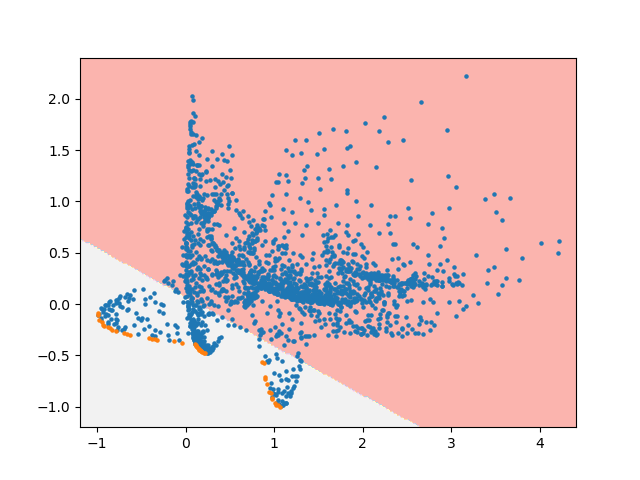
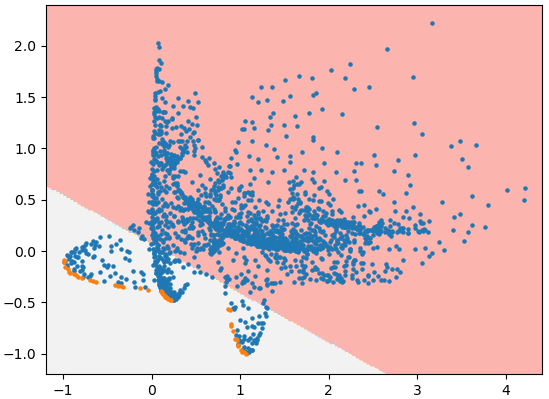
fix figures in LaTeX

diff --git a/2022/LION/main.tex b/2022/LION/main.tex
@@ -7,6 +7,7 @@
 \usepackage{graphicx}
 \usepackage{color}
 \usepackage{hyperref}
+\usepackage{ulem}
 
 \usepackage{amsmath}
 
@@ -19,9 +20,9 @@
 
 \begin{document}
 %
-\title{ML-based approach for accelerating global search algorithm for solving multicriteria problems\thanks{Supported by organization x.}}
+\title{ML-based approach for accelerating global search algorithm for solving multicriteria problems\thanks{This study was supported by the Russian Science Foundation, project No 21-11-00204.}}
 %
-%\titlerunning{Abbreviated paper title}
+\titlerunning{ML-based approach for accelerating global search algorithm}
 % If the paper title is too long for the running head, you can set
 % an abbreviated paper title here
 %
@@ -46,11 +47,11 @@ The paper considers a new approach to solving multicriterial optimization proble
 %
 %
 \section{Introduction}
-\textcolor[rgb]{1,0,0}{Machine learning (ML) methods are powerful tools that are applied in many areas of research.}
+Machine learning (ML) methods are powerful tools that are applied in many areas of research.
 In particular, the ML methods are successfully used for solving complicated problems of computational mathematics. One of such problem classes to which ML can be applied is the class of multicriterial optimization (MCO) models. 
 In this case, ML is used, as a rule, in combination with metaheuristic algorithms \cite{Subraveti2019} that in the case of multiextremal criteria lose in efficiency to deterministic methods \cite{Kvasov2018,Sergeyev2018}.
 
-Among the most qualitative deterministic methods for solving \textcolor[rgb]{1,0,0}{these problems} the information-statistical global search algorithm \cite{Sergeyev2013,Strongin2000} can be considered. This method proposed initially for solving scalar problems was successfully extended to MCO models \cite{GergelKozinovAPI2016,Gergel2018}.
+Among the most qualitative deterministic methods for solving these problems the information-statistical global search algorithm \cite{Sergeyev2013,Strongin2000} can be considered. This method proposed initially for solving scalar problems was successfully extended to MCO models \cite{GergelKozinovAPI2016,Gergel2018}.
 
 The paper reflects results of a new research direction connected with utilizing ML methods for acceleration of the global search algorithm in the case of its application to MCO problems. The proposed approach is based on building a number of separation planes in the criteria space to segregate the Pareto set and accelerate the process of its construction. The efficiency of the approach is estimated experimentally compared to several other MCO methods.
 
@@ -58,14 +59,10 @@ The paper reflects results of a new research direction connected with utilizing 
 \section{Problem statement}
 
 The MCO problem to be considered is formulated as follows:
-\begin{equation}
-f(y)=(f_1 (y),f_2 (y),\dots ,f_s (y)) \to \min, \; y\in D,
-\label{eq:1}
-\end{equation}
-\begin{equation}
-D=\left\{ y \in R^N: a_i \leq y_i \leq b_i, \; 1 \leq i \leq N, \; a,b \in R \right\}.
-\label{eq:2}
-\end{equation}
+\begin{gather}
+f(y)=(f_1 (y),f_2 (y),\dots ,f_s (y)) \to \min, \; y\in D,  \label{eq:1} \\ 
+D=\left\{ y \in R^N: a_i \leq y_i \leq b_i, \; 1 \leq i \leq N, \; a,b \in R \right\}.\label{eq:2} 
+\end{gather}
 where $f_i (y)$, $1 \leq i \leq s$, are  criteria, $y=(y_1,y_2, \dots,y_N)$ is a vector of independent variables, $N$ is the dimension of the problem. The criteria $f_i (y)$, $1 \leq i \leq s$, are supposed to be multiextremal, to be given as a ``black-box'' functions and to satisfy the Lipschitz condition
 \begin{equation}
 |f_i (y')-f_i (y'')| \leq L_i \|y'-y''\|, \; y',y'' \in D, \; 1 \leq i \leq s,
@@ -73,16 +70,16 @@ where $f_i (y)$, $1 \leq i \leq s$, are  criteria, $y=(y_1,y_2, \dots,y_N)$ is a
 \end{equation}
 where $L_i>0$, $1 \leq i \leq s$, are a priori unknown Lipschitz constants.
 
-Any effective (Pareto-optimal) variant  in which it is impossible to reduce the values of all criteria $f_i (y)$, $1 \leq i \leq s$, at once by choosing another option   can be considered as a partial solution to the MCO problem. In practice, various scalarization techniques are often used to find effective solutions \cite{Ehrgott2005,Pardalos2017,Marler2004,GergelKozinov2020}. The present study uses the minimax convolution of partial criteria that possesses good theoretical properties
+Any effective (Pareto-optimal) variant  in which it is impossible to reduce the values of all criteria $f_i (y)$, $1 \leq i \leq s$, at once by choosing another option   can be considered as a partial solution to the MCO problem. In practice, various scalarization techniques are often used to find effective solutions \cite{Ehrgott2005,GergelKozinov2020,Marler2004,Pardalos2017}. The present study uses the minimax convolution of partial criteria that possesses good theoretical properties
 \begin{equation}
 \min{f(y)} \to \min_{y\in D}{\max_{1 \leq i \leq s}{(f_i (y) \lambda_i )}} ,
 \label{eq:4}
 \end{equation}
 where $\lambda_i \geq 0$, $1 \leq i \leq s$, $\sum_{i=1}^s{\lambda_i}=1$, are numerical indicators of the significance of each criterion. 
 
-In general case, the entire set of Pareto-optimal variants is taken as a complete solution to the MCO problem. For the numerical building of an approximation of the Pareto set a number of scalar optimization problems (\ref{eq:4}) are solved with different coefficients $\lambda_i \geq 0$, $1 \leq i \leq s$, uniformly distributed
+In general case, the entire set of Pareto-optimal variants is taken as a complete solution to the MCO problem. For the numerical building of an approximation of the Pareto set a number of scalar optimization problems (\ref{eq:4}) are solved with different coefficients $\lambda_i \geq 0$, $1 \leq i \leq s$, distributed uniformly.
 %in the space of ones.
-\textcolor[rgb]{1,0,0}{in $[0,1]$.}
+%\textcolor[rgb]{1,0,0}{in $[0,1]$.}
 
 \section{General computational scheme}
 
@@ -121,18 +118,26 @@ $R_{ags}(i)$ is calculated in accordance with the expression from the global sea
 
 Calculation of $R_{PS}(i)$ is based on machine learning methods. When solving the first global search problem (\ref{eq:4}), the value of $R_{PS}(i)$ is assumed to be zero. To solve each subsequent scalar problem (\ref{eq:4}), $R_{PS}(i)$ is calculated as follows.
 
-In the course of Pareto set assessment all trial points are partitioned into two classes. This bipartition is based on belonging to the Pareto set. For these classes, a separation hyperplane is constructed in the domain of criteria values using the logistic regression \cite{Yu2011}. Examples of separated planes are shown in Fig.~\ref{fig:1}. During the choice of a new trial point, the distances of all obtained criteria values from the separated plane are calculated and the value of $R_{PS}(i)$ is built depending on these distances. 
+In the course of Pareto set assessment all trial points are partitioned into two classes. This bipartition is based on belonging to the Pareto set. For these classes, a separation hyperplane is constructed in the domain of criteria values using the logistic regression \cite{Yu2011}. Examples of separating planes are shown in Fig.~\ref{fig:1}. During the choice of a new trial point, the distances of all obtained criteria values from the separating plane are calculated and the value of $R_{PS}(i)$ is built depending on these distances. 
 
 \begin{figure}[ht]
-\includegraphics[width=0.8\textwidth]{fig1.png}
-\caption{Separated hyperplanes in the criteria space} \label{fig:1}
+\center
+%\includegraphics[width=0.9\textwidth]{fig1.png}
+\begin{minipage}{0.45\linewidth}
+\center{\includegraphics[width=0.9\linewidth]{fig1a.png}}
+\end{minipage}
+\begin{minipage}{0.45\linewidth}
+\center{\includegraphics[width=0.9\linewidth]{fig1b.png}}
+\end{minipage}
+
+\caption{Separating hyperplanes in the criteria space} \label{fig:1}
 \end{figure}
 
-Hereinafter the algorithm taking into account distances to separated hyperplane and accumulated information will be called ML\_MGSA.
+Hereinafter the algorithm taking into account distances to separating hyperplane and accumulated information will be called ML\_MGSA.
 
 \section{Results of computational experiments}
 
-Computational testing was carried out on the supercomputer ``Lobachevsky'' of Nizhny Novgorod State University in the environment of the Globalizer software system \cite{globalizerSystem}. 
+Computational testing was carried out on the``Lobachevsky'' supercomputer of Nizhny Novgorod State University in the environment of the Globalizer software system \cite{globalizerSystem}. 
 
 The first series of experiments was performed to compare the algorithm ML\_MGSA with a number of widely known multiobjective optimization algorithms using a test two-criterion problem \cite{Evtushenko2014}
 
@@ -143,7 +148,10 @@ f_1 (y) = (y_1-1) y_2^2+1, \; f_2 (y) = y_2, \; 0\leq y_1, y_2 \leq 1.
 
 In these experiments, a numerical approximation of the Pareto set was built. The quality of approximation is estimated by such indicators as the hypervolume index (HV) and distribution uniformity index (DU) \cite{Evtushenko2014,Zilinskas2015}. In the framework of the experiment 5 algorithms of multicriterial optimization were compared: the Monte-Carlo (MC) method, the genetic algorithm SEMO \cite{PISA2003}, the Non-uniform coverage (NUC) method \cite{Evtushenko2014}, the bi-objective Lipschitz optimization (BLO) method \cite{Zilinskas2015} and algorithm ML\_MGSA, proposed in this article. 
   
-ML\_MGSA solved 25 problems (\ref{eq:4}) with different convolution coefficients $\lambda$, uniformly distributed in the field of their variation. The results of the conducted experiments are shown in Table \ref{tab:1} where ML\_MGSA with $\alpha=0$ corresponds to the version without machine learning.
+ML\_MGSA solved 25 problems (\ref{eq:4}) with different convolution coefficients $\lambda$, distributed uniformly.
+%in the field of their variation.
+The results of the conducted experiments are shown in Table \ref{tab:1} where ML\_MGSA with $\alpha=0$ corresponds to the version without machine learning.
+As it follows from the results presented in Table \ref{tab:1}, ML\_MGSA demonstrates the better quality compared to other methods.
 
 \begin{table}
 \caption{Efficiency of the multicriterial algorithms compared}
@@ -158,7 +166,6 @@ DU index (the less the better) & 1.277 & 1.116 & 0.210 & 0.175 & 0.101          
 \end{tabular}
 \end{table}
 
-As it follows from the results presented in Table \ref{tab:1}, ML\_MGSA demonstrates the better quality compared to other methods.
 
 In the second group of experiments 100 bi-criteria MCO problems have been solved. As the criteria the multiextremal functions
 
@@ -172,7 +179,9 @@ a_{ij}(y_1, y_2) = \sin(\pi i y_1) \sin(\pi j y_2), b_{ij}(y_1, y_2) = \cos(\pi 
 \end{equation}
 $0 \leq y_1,y_2 \leq 1$, have been taken where parameters $-1 \leq A_{ij},B_{ij},C_{ij},D_{ij} \leq 1$ are the independent random numbers distributed uniformly \cite{Gergel2019_2,Grishagin2015_2}.
 
-In order to estimate efficiency of machine learning procedure in ML\_MGSA, this method tested in 2 variants: with ($\alpha>0$) and without ($\alpha=0$) machine learning. Each multicriterial problem was reduced to 50 scalar problems (\ref{eq:4}) with different weight coefficients $\lambda$ distributed uniformly. Other algorithm's parameters were the same. The averaged results can be found in Table \ref{tab:2}.
+In order to estimate efficiency of machine learning procedure in ML\_MGSA, this method tested in 2 variants: with ($\alpha>0$) and without ($\alpha=0$)
+\sout{machine learning} \textcolor[rgb]{1,0,0}{use of separating planes in the criteria space}. 
+Each multicriterial problem was reduced to 50 scalar problems (\ref{eq:4}) with different weight coefficients $\lambda$, distributed uniformly. Other algorithm's parameters were the same. The averaged results can be found in Table \ref{tab:2}.
 
 \begin{table}
 \caption{Efficiency of the multicriterial algorithms compared}
@@ -188,22 +197,6 @@ Reducing the number of iterations & 1                & 2.9     \\  \hline
 \end{table}
 
 As shown in the table, embedding the machine learning into the global search algorithm results in a significant reduction of the number of trials (almost 3 times) with maintaining close values of indicators HV and DU.
-
-%1 \cite{Miettinen1999}
-%2 \cite{Ehrgott2005}
-%3 \cite{Pardalos2017}
-%4 \cite{Strongin2000}
-%5 \cite{Sergeyev2013}
-%6 \cite{GergelKozinovAPI2016}
-%7 \cite{Gergel2018}
-%8 \cite{Marler2004}
-%9 \cite{GergelKozinov2020}
-%10 \cite{Yu2011}
-%11 \cite{globalizerSystem}
-%12 \cite{Evtushenko2014}
-%13 \cite{Zilinskas2015}
-%14 \cite{PISA2003}
-
 
 %
 % ---- Bibliography ----
